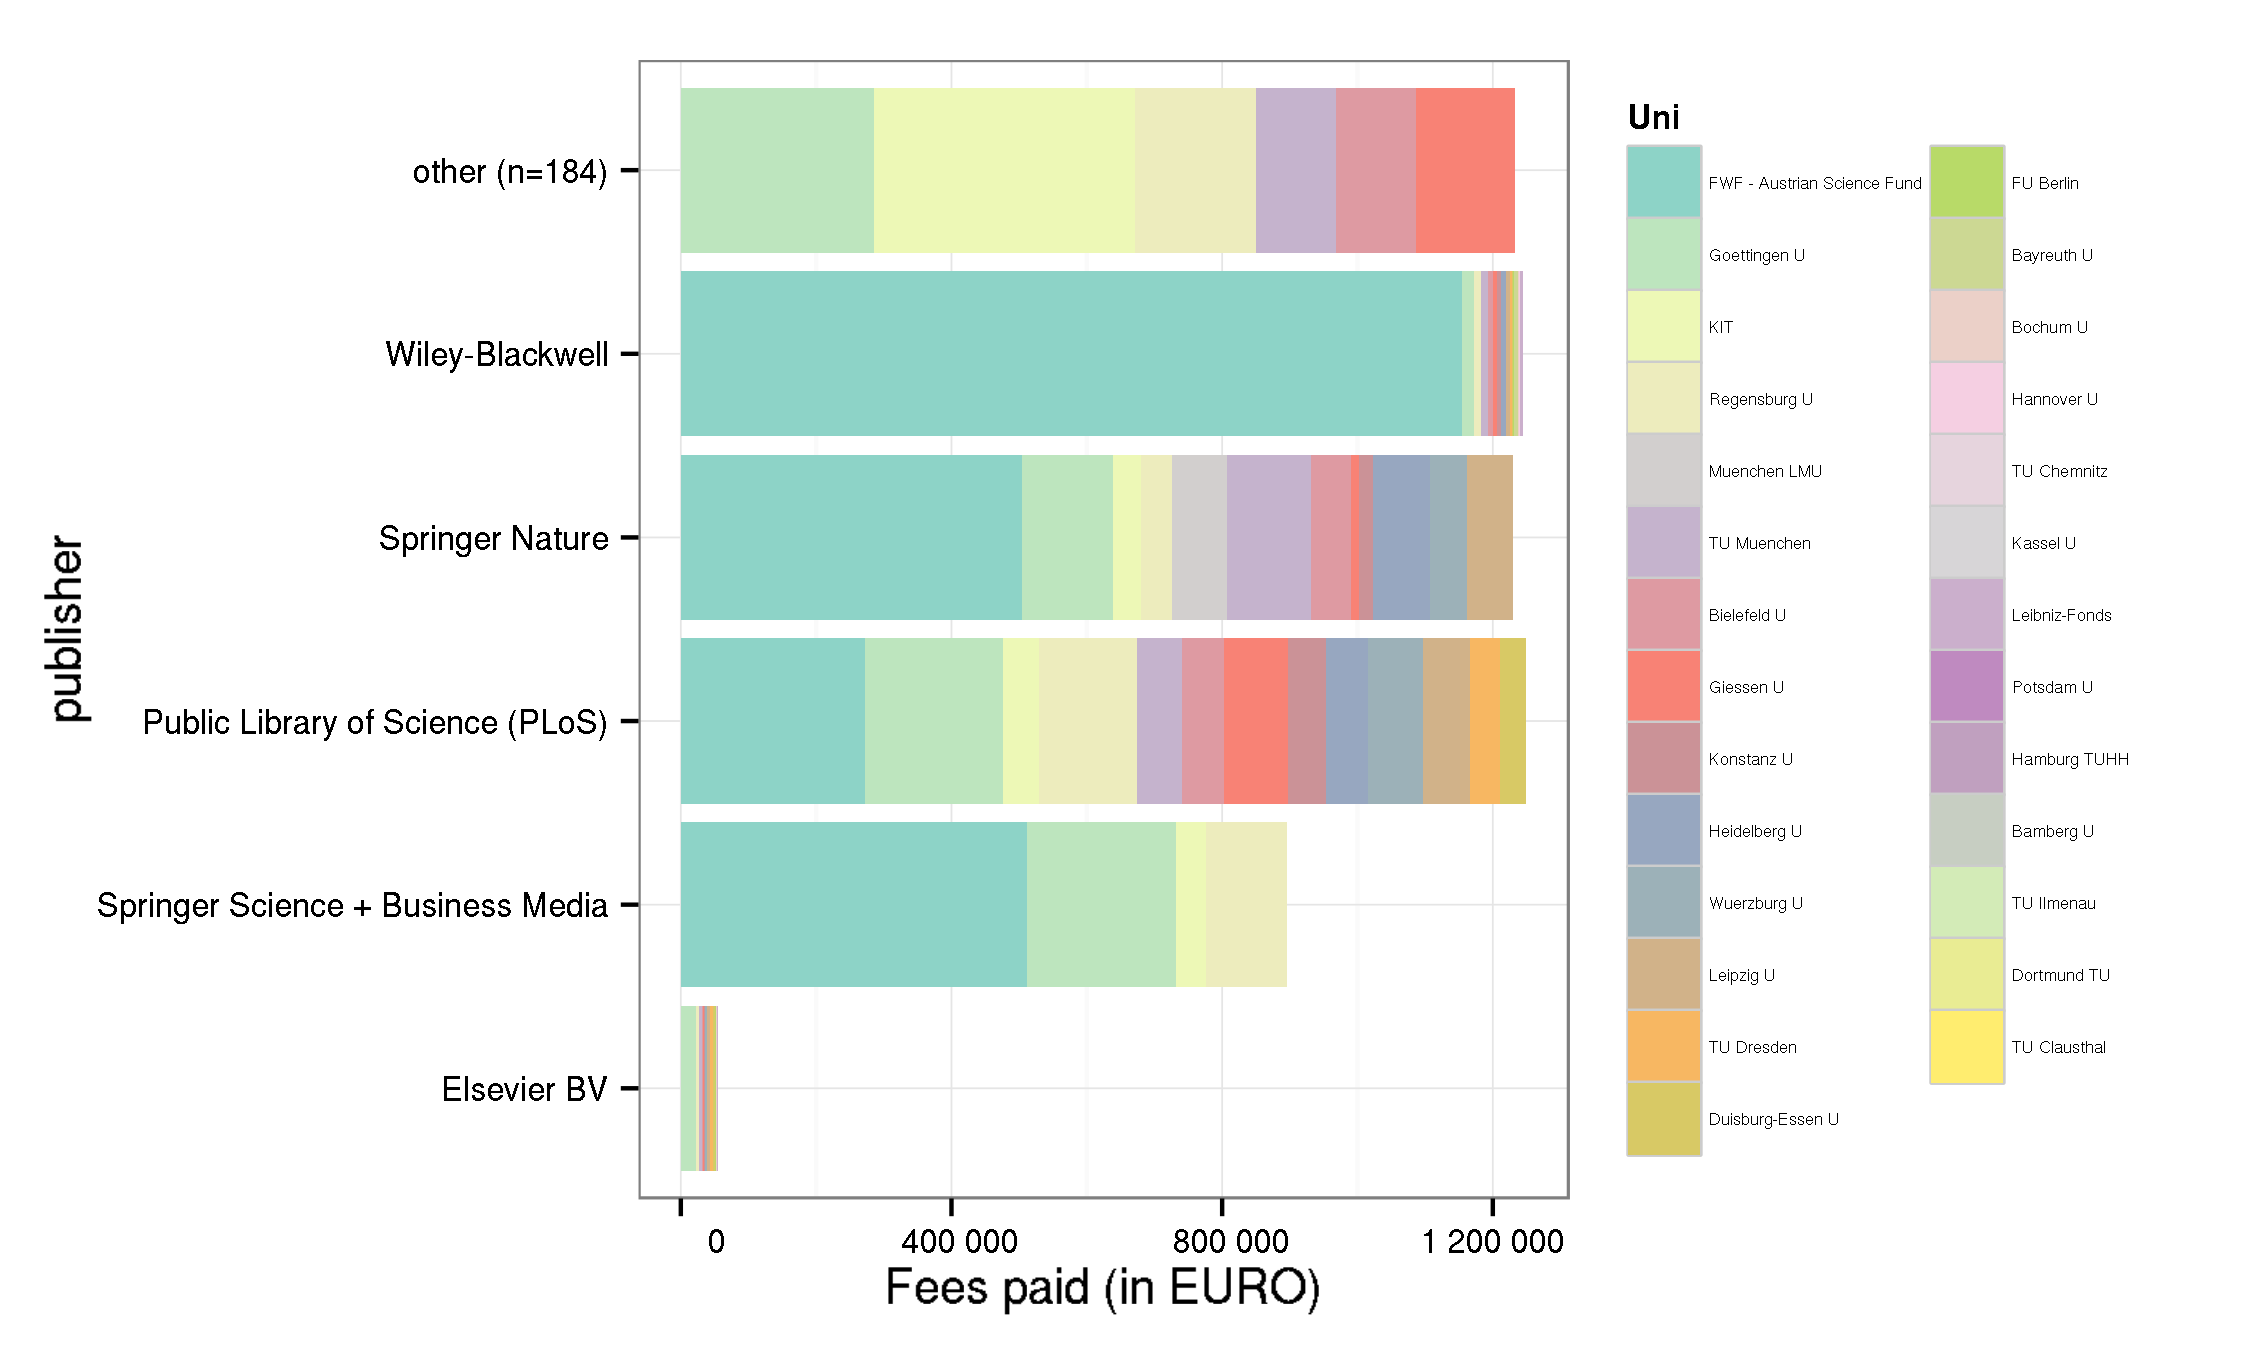
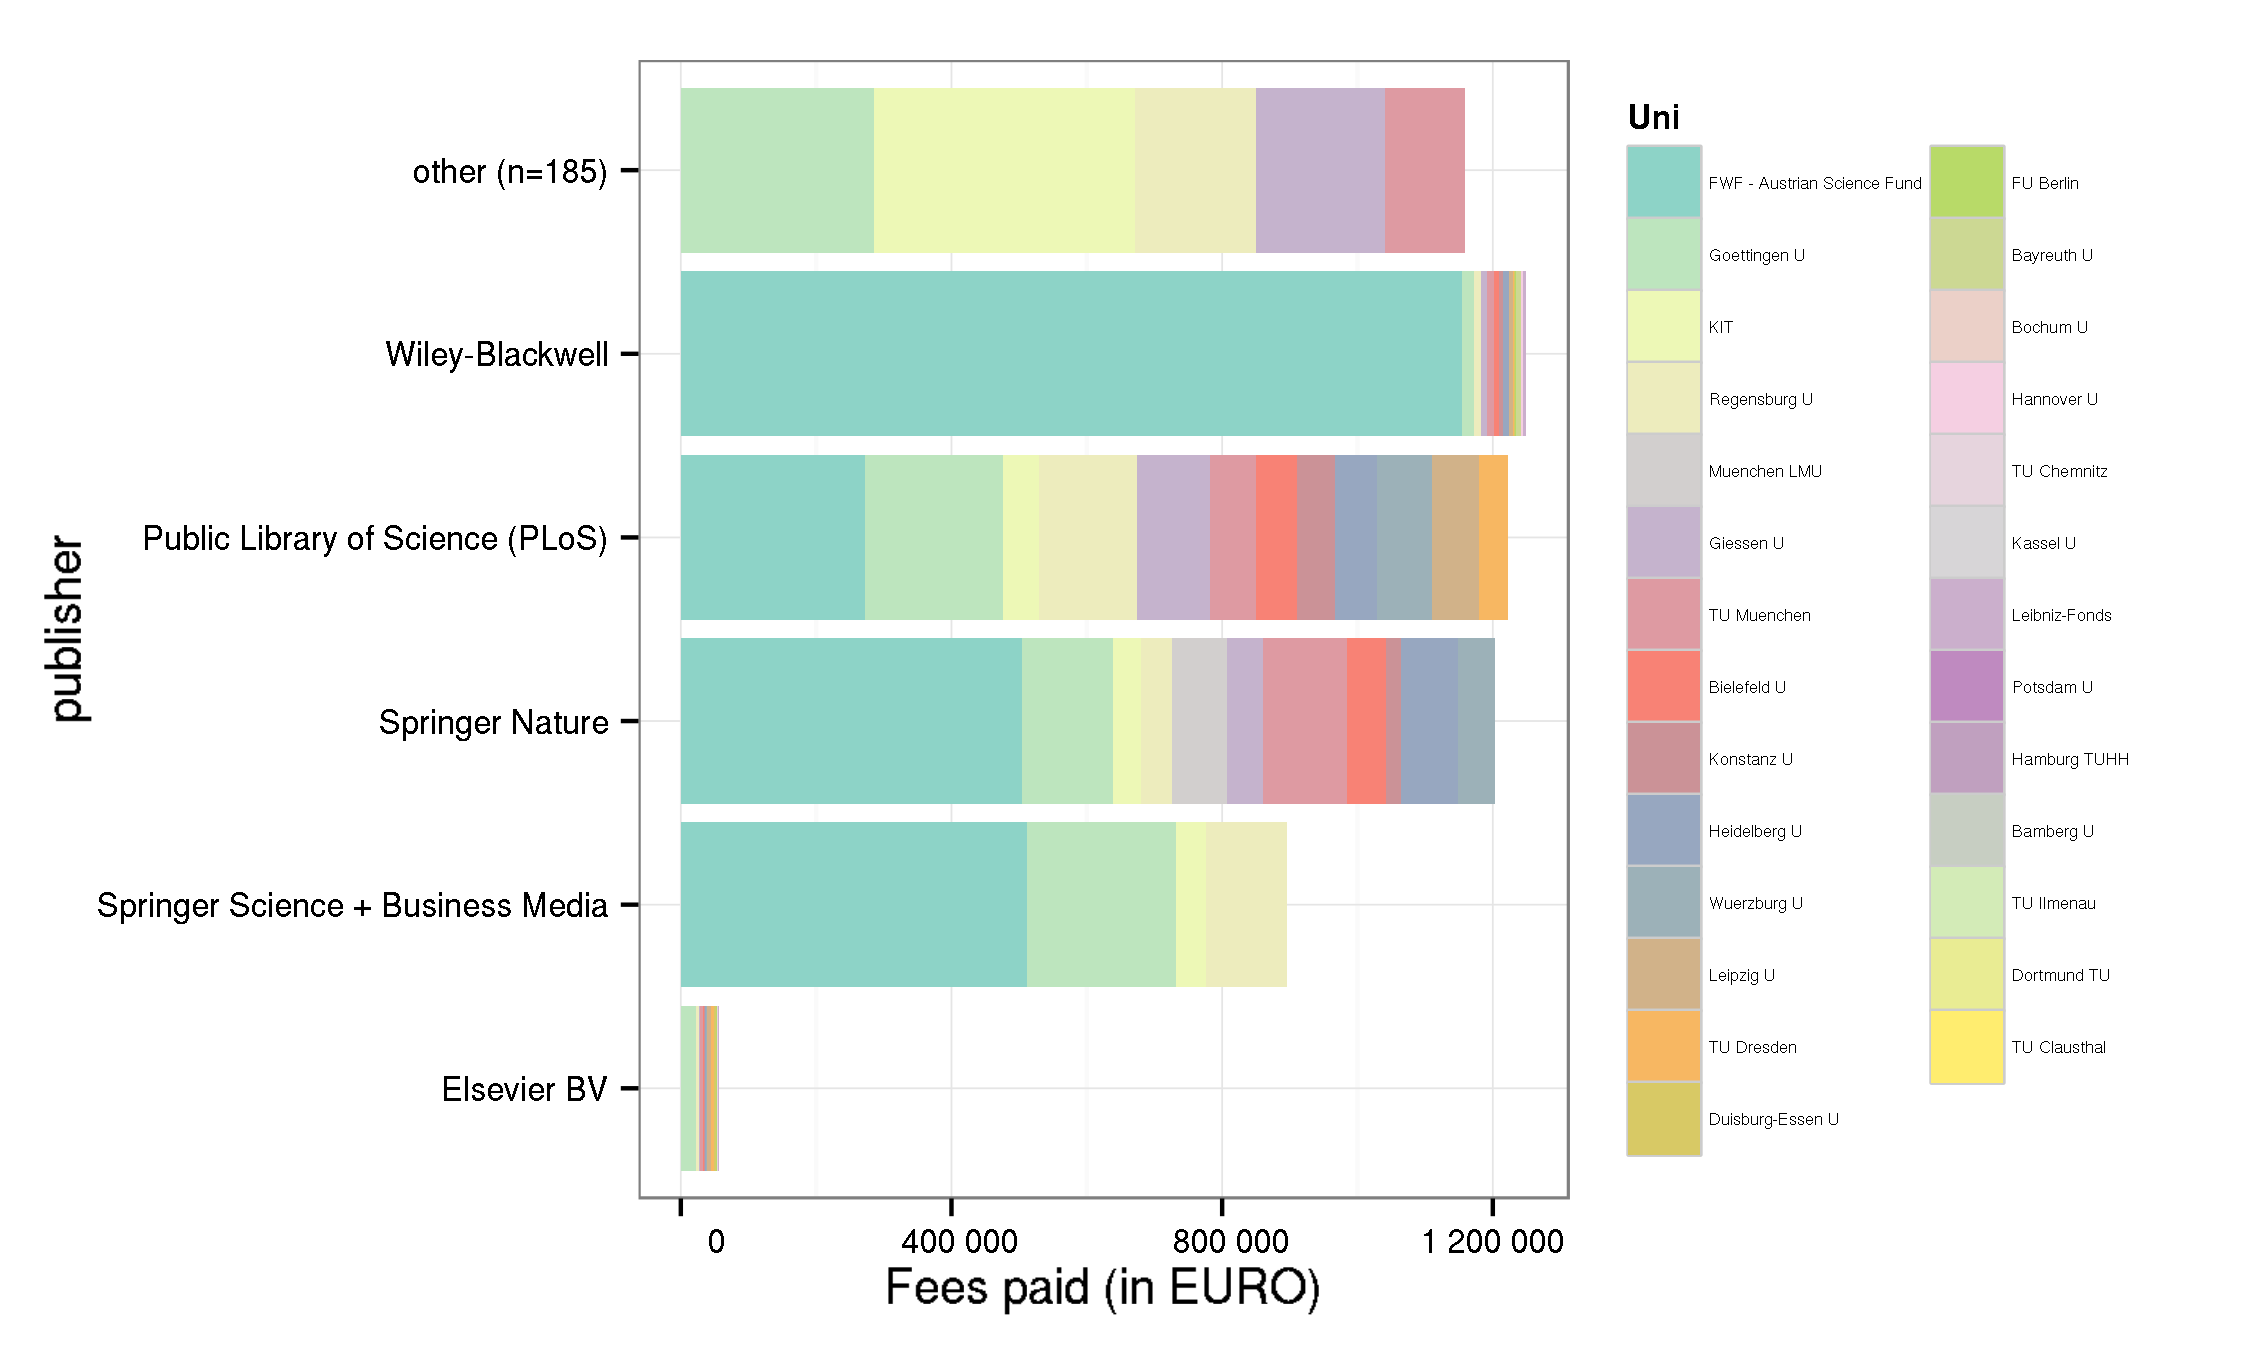
Added giessen apc data 2015 and 2016

diff --git a/README.md b/README.md
@@ -64,13 +64,13 @@ The data content covers APCs as paid for by our central budget for the Max Planc
 
 Information on both open access journal articles and open access publication of articles in toll-access journals ("hybrid") are provided.
 
-In total,  16 860 703 € for  10 767 articles were paid by the participating unviversities. Average  fee is 1 566 € and the median 1 386 €.
+In total,  16 963 310 € for  10 841 articles were paid by the participating unviversities. Average  fee is 1 564.7 € and the median 1 386 €.
 
 ### Open Access Journals
 
 
 
-At the moment, the dataset releases information on 8 124 articles in open access journals which charge publication fees. Total expenditure amounts to  10 579 734 €. Average  fee is 1 302.3 € and the median 1 235 €.
+At the moment, the dataset releases information on 8 198 articles in open access journals which charge publication fees. Total expenditure amounts to  10 682 342 €. Average  fee is 1 303 € and the median 1 236 €.
 
 View dataset on [GitHub](https://github.com/OpenAPC/openapc-de/blob/master/data/apc_de.csv).
 
@@ -87,7 +87,7 @@ View dataset on [GitHub](https://github.com/OpenAPC/openapc-de/blob/master/data/
 |FWF - Austrian Science Fund                 |      731|           1016441|          1390|   1271|
 |FZJ - ZB                                    |      158|            196869|          1246|   1177|
 |GFZ-Potsdam                                 |      106|            126520|          1194|   1065|
-|Giessen U                                   |      243|            326082|          1342|   1247|
+|Giessen U                                   |      317|            428690|          1352|   1273|
 |Goettingen U                                |      650|            883918|          1360|   1354|
 |Hamburg TUHH                                |       24|             32789|          1366|   1466|
 |Hannover U                                  |       69|             90259|          1308|   1241|
